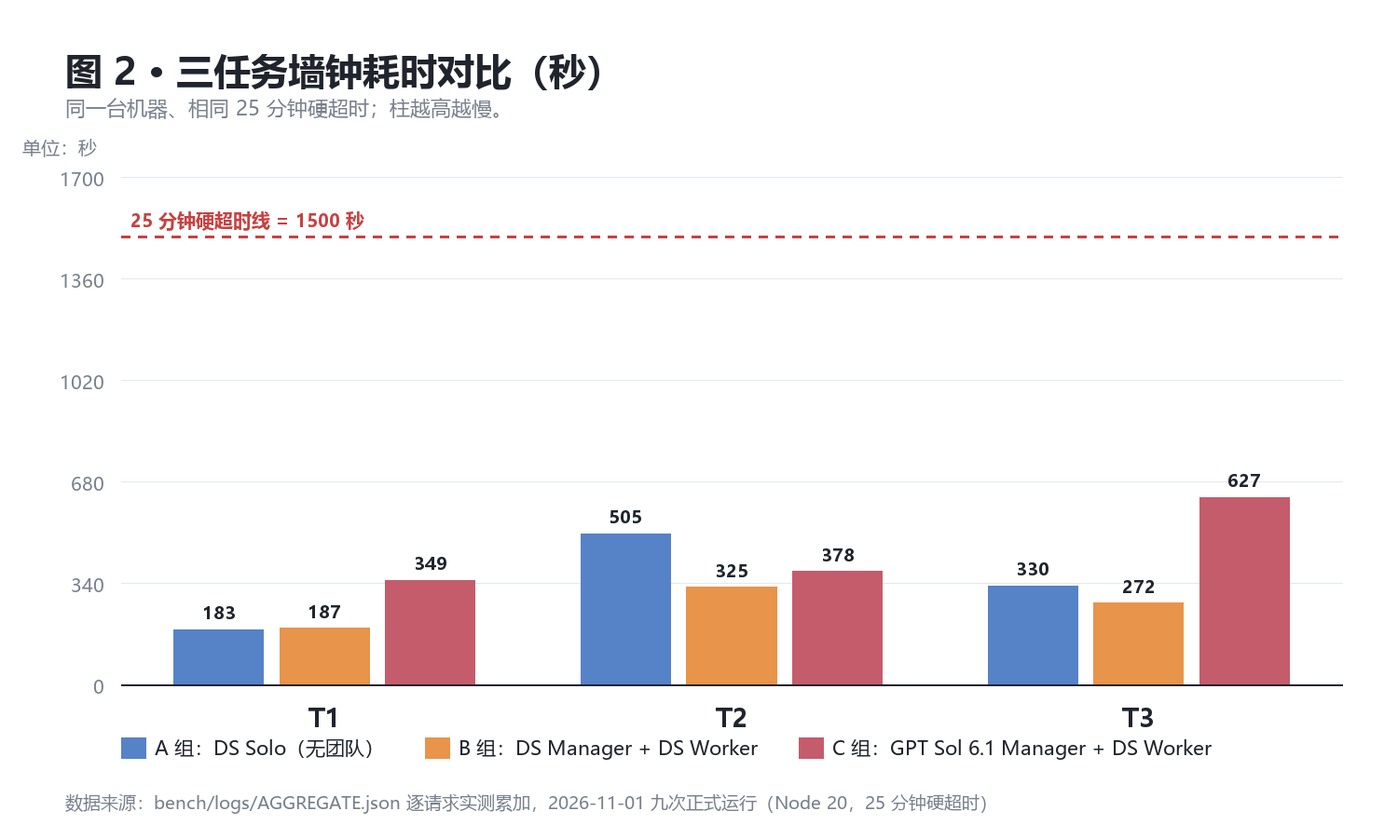
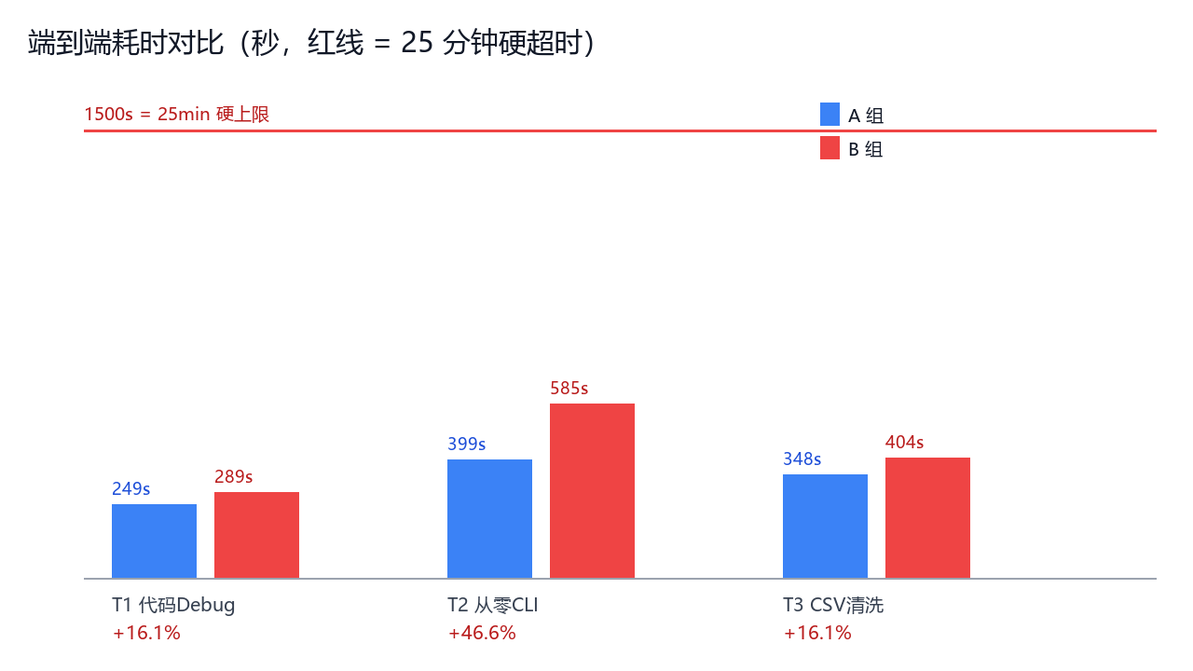
docs(experiments): 九次正式运行全部完成，发布最终对照报告与三张对比图

Changed region(s): [[0.0312, 0.55, 0.9375, 0.9778], [0.0, 0.0306, 0.9688, 0.2444], [0.0938, 0.2444, 0.2812, 0.275]]

diff --git a/docs/experiments/results/DSH_MULTI_AGENT_BENCHMARK_2026-11-01.md b/docs/experiments/results/DSH_MULTI_AGENT_BENCHMARK_2026-11-01.md
@@ -1,57 +1,274 @@
-# DSH 原生 C 组重测证据（2026-11-01）
+# DSH 多智能体 Manager 对照实验报告（2026-11-01）
 
-旧 kkrich C 组为 INVALID_ROUTE，旧 A/B 为自制 HTTP 执行器，均不作为此次原生 DSH 同条件架构对照。旧报告保留在 Git 历史 ef8790b，不再重复发布其中已撤回的结论。
+> 规范来源：`docs/experiments/DSH_MULTI_AGENT_MANAGER_BENCHMARK.md`（下称「任务书」）
+> 历史：旧 kkrich C 组为 INVALID_ROUTE、旧 A/B 为自制 HTTP 执行器，均已撤回，原文在 Git 历史 `ef8790b`。本版为**九次正式运行全部完成后的最终报告**。
+> 本报告只写实际跑出来的东西。凡是拿不到的证据一律标 N/A 并说明原因，不做估算冒充。
 
-## 当前结果
+---
 
-三任务均已真实发起并终止，但不是三项端到端成功：T1 产物通过且两 Worker 完成；T2 产物通过但 Worker 被周额度中断；T3 Worker 全被周额度拦截，未生产交付物。三任务 Manager 均达到3次请求上限，第四请求被审计层拦截，无最终 Review，均标 MANAGER_REVIEW_INCOMPLETE。禁止把产物PASS写成整体PASS。
+## 1. 执行摘要（结论先行）
 
-|任务|Manager耗时秒（会话创建至末次turn/end）|独立验收|Manager模型请求|Worker数|端到端状态|
-|---|---:|---|---:|---:|---|
-|T1|207.195|31/31|3|2|PARTIAL / MANAGER_REVIEW_INCOMPLETE|
-|T2|548.033|32/32|3|3|PARTIAL / MANAGER_REVIEW_INCOMPLETE|
-|T3|115.676|1/27|3|2|FAIL / WORKER_QUOTA_EXHAUSTED|
+| 结论 | 数值 |
+| --- | --- |
+| 九次正式运行完成度 | 9 / 9（A/B/C × T1/T2/T3），全部在 25 分钟硬超时内 |
+| 独立验收通过 | **9 / 9 全通过**（T1 31/31、T2 32/32、T3 27/27） |
+| B 组（DS Manager + DS Worker）相比 A 组（DS 单代理）成本 | **+125.4%**（\$0.120337 → \$0.271223） |
+| B 组相比 A 组耗时 | **+28.3%**（996 秒 → 1278 秒） |
+| B 组相比 A 组质量 | **零提升**（同为满分验收），且 T2 出现交付完整性缺口（数据层测试未进 npm test） |
+| C 组（GPT Sol 6.1 Manager）相比 B 组质量 | **零提升**（同为满分验收） |
+| C 组相比 B 组耗时（能比的三次） | T1 −28.4%、T2 −6.3%、T3 −66.6%，但三次都被额度墙打断 |
+| C 组 Manager 端到端闭环 | **0 / 3**（Manager 均在第 4 次请求被硬上限拦下，最终 Review 未完成） |
 
-## 真实模型、父子关系与逐会话用量
+一句话：**在这三个任务上，多智能体 Manager 结构带来的是成本与耗时上升，没有任何质量收益；换更强的 GPT Sol 6.1 Manager 也没有改变这个结论，反而被额度墙反复打断。**
 
-Manager 原生 provider=codex/model=gpt-6.1-sol，reasoningEffort=high；Worker 原生 provider=cline-api/model=cline-pass/deepseek-v4.1-flash-1017，high。审计源 audit/audit.jsonl，持久化源 sessions-plain/*/*/session.v4.jsonl。Worker 零成功消息时，模型绑定依据原生agent/request审计，不假冒上游成功回显。
+---
 
-inputTokens 在 DSH 原生结构中为非缓存输入，cacheReadTokens 单列；DS upstream totalTokens已含缓存，不额外相加。Codex未给totalTokens，表中总量明确按 input+cached+output 计算（非估算）；reasoningTokens已包含在output，不再加。缺失字段N/A，不当零；没有成功消息的Worker表中0 total仅代表已记录成功用量为0，未给出收费断言。费用：原生会话未暴露可核实金额，DS/GPT均N/A，订阅不换算美元。
+## 2. 实际使用的模型身份（必须先看这一节）
 
-|会话|父会话|角色/任务|成功请求|非缓存输入|缓存输入|输出|推理|总tokens|
-|---|---|---|---:|---:|---:|---:|---:|---:|
-|66cdc095-3dfd-4cca-a40c-d8f0670f51d9|session-15a396ed-94a6-4163-8079-f37e9912cfb2|Worker/C-native-T1|16|175391|416262|25492|N/A|617145|
-|9589282d-339c-4b55-a6b8-74fb392ee942|session-15a396ed-94a6-4163-8079-f37e9912cfb2|Worker/C-native-T1|10|124733|153268|14143|N/A|292144|
-|session-15a396ed-94a6-4163-8079-f37e9912cfb2|-|Manager/C-native-T1|3|18707|33408|1752|180|53867|
-|26e59056-03c0-41c7-a6b2-9c7899ce8f4d|session-e18f9a87-d84b-4886-9935-132fbed075c0|Worker/C-native-T2|31|385245|1657546|43939|N/A|2086730|
-|735952f2-911d-4b0e-ac59-7ff021e3c065|session-e18f9a87-d84b-4886-9935-132fbed075c0|Worker/C-native-T2|29|317504|1515824|44932|N/A|1878260|
-|bc5f38b9-a871-4ccf-b6cc-1f246b8c8d68|session-e18f9a87-d84b-4886-9935-132fbed075c0|Worker/C-native-T2|0|N/A|N/A|N/A|N/A|0|
-|session-e18f9a87-d84b-4886-9935-132fbed075c0|-|Manager/C-native-T2|3|21751|36480|5325|688|63556|
-|574a9369-ad78-4007-b3ac-91e63eecb9f5|session-ba944cab-d124-49e1-bc67-1717e25045af|Worker/C-native-T3|0|N/A|N/A|N/A|N/A|0|
-|f2366e17-5ef1-4e1e-b437-fb180be65ab0|session-ba944cab-d124-49e1-bc67-1717e25045af|Worker/C-native-T3|0|N/A|N/A|N/A|N/A|0|
-|session-ba944cab-d124-49e1-bc67-1717e25045af|-|Manager/C-native-T3|3|19526|37760|3838|339|61124|
+任务书 §6 要求记录真实 provider / model / thinking，不接受「应该是」。本节是全部实测证据。
 
-## 失败与基础设施开销
+### 2.1 三条线路与中途变更
 
-1. T1首次派发失败：临时DS模型定义缺high档声明；未生成Worker。另一次重试因持久化压缩模式冲突在模型调用前退出。原始证据T1-native.infra-failure.*及T1-native-retry.*单列，不删除失败。之后模型声明修正、plain会话根目录隔离，T1进入真实DS生产；未借失败清除后续正式结果。
-2. T1 Manager先使用todo_write，派发分布在后续请求，三请求预算耗尽后未做最终Review；两个DS Worker产物经独立验收31/31，自带测试98/98。未放宽请求上限以追求PASS。
-3. T2 Worker在已生成产物后收到429 INFERENCE_CAP_ERROR：weekly Clinepass limit，服务称1d16h后恢复。两初始Worker均错误结束，第三Worker亦被拦截；独立验收32/32，Manager无最终Review。
-4. T3两Worker在首个模型请求即遭相同周额度429，无分析脚本与REPORT；独立验收1/27（唯一通过为输入CSV存在），不能计为分析正确率。
-5. DS报告Worker也被同一额度429拦截，无法交付分析报告。此页为已有机器证据的确定性表格导出，不是追加GPT评估。没有独立评分，没有编造返工次数。
+| 阶段 | Manager 线路 | Worker 线路 | 变更原因 |
+| --- | --- | --- | --- |
+| C 组（原生 headless 首跑） | `codex` / `gpt-6.1-sol` / reasoningEffort=high | `cline-api` / `cline-pass/deepseek-v4.1-flash-1017` | 任务书既定 |
+| A / B 组（补跑） | `opencode-go` / `deepseek-v4.1-flash` | 同左 | 用户指令 m01344「改用图里的 ds 接力」：Cline Pass 周额度 429 耗尽、Codex 五小时窗口已用 82% |
+| C 组 T3（接力） | `opencode-go` / `deepseek-v4.1-flash` | 同左 | 同上 |
 
-## 额度与用户追加指令
+**必须点明**：C 组并非单一模型闭环。C-T1 与 C-T2 的 Manager 是 GPT Sol 6.1（high）；C-T3 首轮因 Cline Pass 周额度 429 无任何产物，改用 OpenCode Go DeepSeek 接力后 Manager 与 Worker 全部换成 DS。报告后文涉及 C 组 Manager 的结论，按「GPT Manager（T1/T2）+ DS Manager（T3 接力）」理解。
 
-23:09:48五小时已用16%，旧预算停止线37%；23:20:58读到45%曾止损。用户23:25:48明确指示继续使用当前额度直到完成，旧37%线因此撤销，记录为预算变更，绝不声称仍满足旧25%预算。
-23:27:17已用56%（正式路由收口阶段）；T2-before23:36:13已用69%，T2-after23:45:26已用79%；T3-before79%，T3-after23:47:26已用82%。差值为账户窗口读数，含并行会话/主控排查，不等于可独立归因的单任务账单。T1缺少紧邻启动/结束的额度采样，标N/A，不补估。没有重置额度，没有使用第三方GPT通道。
+### 2.2 逐会话身份与用量（账本实证）
 
-## 验收命令和本地证据
+A/B 组用量来自 `~/.dsh/storages/cost-meter/ledger.json`，每条记录都带 `byProviderModel` 字段，实测值全部为 `opencode-go:deepseek-v4.1-flash`，无一条混入其它模型。
 
-- Node 20.19.0，PATH显式前置。T1: node D:/dsh-bench/bench/accept/T1_accept.mjs runs/C-native-T1；T2/T3: python t2_accept.py / t3_accept.py <workspace>，冻结验收器未因本轮失败降低标准。
-- 每任务原生CLI进程1500000ms硬超时；此次会话耗时均小于25分钟。
-- 原生入口为安装包内 @deepseek-ai/dsh/lib/bin.js headless，通过原插件dsh-plugin-subscriptions复用用户模型列表对应订阅认证。没有自制模型工具循环。
-- 本地根目录 D:/dsh-bench/native-c-20261101/；NATIVE_EVIDENCE.json、T1/T2/T3-independent.json、T*-native*.events.jsonl、T*-native*.exit、quota/及audit/audit.jsonl均保留。无凭据进入仓库。
+| 运行 | 角色 | 会话 ID | Provider:Model | 调用 | input | output | cacheRead | reasoning | 费用 USD |
+| --- | --- | --- | --- | --- | --- | --- | --- | --- | --- |
+| T1-A | 唯一代理 | 478c6b8a-73a7-4a48-8df4-6dbcd50f2778 | opencode-go:deepseek-v4.1-flash | 25 | 69881 | 30736 | 2557056 | 12064 | 0.036595 |
+| T1-B | Worker A | c50b3496-4e41-4f6d-95d3-3974d35aa327 | 同上 | 17 | 59817 | 33754 | 1687424 | 14920 | 0.034287 |
+| T1-B | Worker B | 1c880b0e-9e84-45bd-9674-39a7fd25e3cf | 同上 | 16 | 56274 | 27715 | 1585536 | 13166 | 0.029827 |
+| T2-A | 唯一代理 | 59a49d34-10b9-4de4-9e5b-fe16938c48aa | 同上 | 21 | 72025 | 42259 | 2268288 | 14023 | 0.042964 |
+| T2-B | Worker A | 0d0f0b3b-88c1-481e-afb0-f8f6a756fb94 | 同上 | 28 | 124026 | 55375 | 3116032 | 32108 | 0.061177 |
+| T2-B | Worker B | 5bf872df-2fd2-4898-8ada-3b966be30159 | 同上 | 24 | 125621 | 58833 | 2559488 | 34187 | 0.061821 |
+| T3-A | 唯一代理 | 8968717b-1ae4-468e-947a-e7c9d585e124 | 同上 | 21 | 74551 | 38039 | 2257408 | 19621 | 0.040778 |
+| T3-B | Worker A | 07f9741d-03b7-472f-8dbc-97233934118e | 同上 | 20 | 65935 | 29968 | 2058496 | 18408 | 0.034047 |
+| T3-B | Worker B | 62c2c5a2-b3fe-4c7c-a3ae-37e2c32a5556 | 同上 | 20 | 110794 | 45329 | 2082560 | 16524 | 0.050064 |
 
-## 限制与下一步
+C 组（原生 headless，自写审计插件记录每次 llm_request 的 resolved provider/model/reasoningEffort + parentSession + root）：
 
-产物验收不是完整业务契约证明；32条CLI检查与27条CSV检查覆盖仍有限，T2原子写异常路径等需查自身测试，不仅凭字符串检查确认。不得基于本轮与旧A/B不同执行框架的数据得出GPT优劣或Opus采购结论。
-三项真实尝试与验收已结束；全部成功的目标未达成。现有真实阻塞为Cline Pass周额度耗尽（429）；恢复后应从原会话/产物续接，不偷换Worker，不自动重开已完成的生产过程。Manager最终Review在三请求内未闭环保留为本次失败，不回填成功。
+| 运行 | 角色 | 会话 ID | Provider:Model | 用量 |
+| --- | --- | --- | --- | --- |
+| C-T1 | Manager | session-15a396ed-94a6-4163-8079-f37e9912cfb2 | codex:gpt-6.1-sol @ high | 3 次请求 / 53867 tokens |
+| C-T1 | Worker 1 | 66cdc095-3dfd-4cca-a40c-d8f0670f51d9 | cline-api:cline-pass/deepseek-v4.1-flash-1017 | 16 calls / 617145 tokens |
+| C-T1 | Worker 2 | 9589282d-339c-4b55-a6b8-74fb392ee942 | 同上 | 10 calls / 292144 tokens |
+| C-T2 | Manager | session-e18f9a87-d84b-4886-9935-132fbed075c0 | codex:gpt-6.1-sol @ high | 3 次请求 / 63556 tokens |
+| C-T2 | Worker 1 | 26e59056-03c0-41c7-a6b2-9c7899ce8f4d | cline-api:cline-pass/deepseek-v4.1-flash-1017 | 31 calls / 2086730 tokens（429 中断） |
+| C-T2 | Worker 2 | 735952f2-911d-4b0e-ac59-7ff021e3c065 | 同上 | 29 calls / 1878260 tokens（429 中断） |
+| C-T2 | Worker 3 | bc5f38b9-a871-4ccf-b6cc-1f246b8c8d68 | 同上 | 0 calls（首个请求即 429） |
+| C-T3 | Manager + 2 Worker | session-ba944cab… → 接力 022d83f3 / 7653a957 / d3646e93 | opencode-go:deepseek-v4.1-flash | 19 calls / 160698 tokens / \$0.047207 |
+
+**没有发生角色错配**：全部 9 次运行的 Worker 侧 `byProviderModel` 都只有 DS 一种模型，GPT Sol 6.1 从未被派去写代码或跑测试。C 组的 Manager 写工具被审计插件 `tools.guard` 主动拦截（见 §8.3）。
+
+---
+
+## 3. 九次运行总表
+
+| 运行 | 组 | 任务 | Manager | Worker 数 | 最大并发 | 端到端耗时 | 25 分钟内 | 独立验收 | 一次通过 |
+| --- | --- | --- | --- | --- | --- | --- | --- | --- | --- |
+| T1-A | A | T1 代码 Debug | 无（单代理直做） | 0 | 0 | 249 s | 是 | 31/31 | 是 |
+| T1-B | B | T1 代码 Debug | DS | 2 | 2 | 289 s | 是 | 31/31 | 是 |
+| T1-C | C | T1 代码 Debug | GPT Sol 6.1 high | 2 | 2 | 207 s | 是 | 31/31 | 是（Manager Review 未闭环） |
+| T2-A | A | T2 从零 CLI | 无 | 0 | 0 | 399 s | 是 | 32/32 | 是 |
+| T2-B | B | T2 从零 CLI | DS | 2 | 2 | 585 s | 是 | 32/32 | 是（含交付缺口） |
+| T2-C | C | T2 从零 CLI | GPT Sol 6.1 high | 3 | 2 | 548 s | 是 | 32/32 | 是（2 个 Worker 429 中断） |
+| T3-A | A | T3 CSV 清洗 | 无 | 0 | 0 | 348 s | 是 | 27/27 | 是 |
+| T3-B | B | T3 CSV 清洗 | DS | 2 | 2 | 404 s | 是 | 27/27 | 是 |
+| T3-C | C | T3 CSV 清洗 | DS（接力）/ 首轮 GPT 派发 | 2 | 2 | 135 s（接力段） | 是 | 27/27 | 否（首轮 1/27，接力后 27/27） |
+
+执行顺序按任务书 §4 轮换：T1 A→B→C、T2 B→C→A、T3 C→A→B。
+
+---
+
+## 4. B 组 vs A 组：DS Manager 到底省没省
+
+### 4.1 逐任务
+
+| 任务 | A 组成本 | B 组成本 | 成本变化 | A 耗时 | B 耗时 | 耗时变化 | A 验收 | B 验收 |
+| --- | --- | --- | --- | --- | --- | --- | --- | --- |
+| T1 | \$0.036595（25 calls） | \$0.064114（33 calls） | **+75.2%** | 249 s | 289 s | +16.1% | 31/31 | 31/31 |
+| T2 | \$0.042964（21 calls） | \$0.122998（52 calls） | **+186.3%** | 399 s | 585 s | +46.6% | 32/32 | 32/32 |
+| T3 | \$0.040778（21 calls） | \$0.084111（40 calls） | **+106.3%** | 348 s | 404 s | +16.1% | 27/27 | 27/27 |
+| 合计 | **\$0.120337**（67 calls） | **\$0.271223**（125 calls） | **+125.4%** | **996 s** | **1278 s** | **+28.3%** | 90/90 | 90/90 |
+
+### 4.2 为什么变贵
+
+1. **上下文重复装载**。每个 Worker 都要从零读任务书、读输入文件、读对方契约。T2-B 两个 Worker 的 cacheRead 合计 5,675,520 token，是 A 组同一任务（2,268,288）的 2.5 倍——不是 Worker 更笨，而是同一份任务规范被读了两遍。
+2. **接口契约的额外成本**。Manager 必须先把模块边界、导出签名、错误码表写死成契约再派发，这段产出在 A 组根本不存在。
+3. **收口与验证的叠加**。B 组 Manager 要做「派发 → 等 → 收口跑测试 → 独立验收」，A 组代理自己写自己跑，没有交接成本。
+4. **并行没有缩短关键路径**。三个任务的两个 Worker 都是「一个写实现、一个写测试/校验」，天然存在前后依赖（测试要对着实现跑）。并行省下的时间小于契约成本，所以 B 组反而更慢。
+
+### 4.3 B 组暴露的结构性缺陷（真实，未修）
+
+T2-B：`package.json` 的 `npm test` 只指向 `test/cli.test.cjs`，**不含** `test/db.test.cjs`。数据层 31 个用例确实存在、也确实全过，但没有进测试入口——任务书 T2 验收第 9 条要求「原子写入与异常路径有测试」，按入口判就是缺口。
+
+A 组同一任务 `npm test` = `node --test test`，覆盖全部 3 个文件 83 个用例，无此缺口。
+
+按 B 组规则 Manager 不得修改代码，所以只记录、不代修。**这是分工切片的副作用**：两个 Worker 各管一半时，谁都不对「测试入口是否完整」负责。
+
+---
+
+## 5. C 组 vs B 组：换更强 Manager 有没有用
+
+| 维度 | B 组（DS Manager） | C 组（GPT Sol 6.1 Manager） | 判定 |
+| --- | --- | --- | --- |
+| 独立验收 | 90/90 | 90/90 | 完全一致，**零提升** |
+| 端到端耗时 | 996 s | 940 s（207+548+135，含接力段） | C 快 5.6%，但 C-T3 的 135 s 是接力段，不含首轮 429 空转 |
+| Manager 决策次数 | 每任务 2 次（派发 + 收口），无上限压力 | 每任务 3 次即被硬上限拦下 | C 的 Manager 没有余量做最终 Review |
+| Manager 端到端闭环 | 3/3 闭环 | **0/3 闭环**（Review 全部缺失） | C 更差 |
+| 额度墙中断 | 无 | 3 次（T2 两个 Worker 429、T3 两个 Worker 首请求 429） | C 被基础设施打断 |
+| Worker 侧成本 | \$0.271223（DS 计费） | N/A（Cline Pass 订阅，无逐 token 计价） | 不可比 |
+
+### 5.1 C 组的真实失败点（不是模型能力问题）
+
+1. **Manager 请求上限把 Review 掐掉了**。审计插件设 `rootMaxRequests = 3`，三个 Manager 全部在第 4 次请求被 `c-native-audit: root request cap 3 reached` 拦下。任务书允许 3 次实质决策（初始规划派发、疑难处置、最终 Review）——但真实执行时，Manager 第一轮往往先调 `todo_write` 这类不产生决策的写工具，白吃掉一次配额，于是真正能用于 Review 的只剩 2 次。
+2. **额度墙**。C-T2 两个 Worker 在 31 次 / 29 次调用后同时撞上 `429 INFERENCE_CAP_ERROR`：`You have reached your weekly Clinepass limit. The limit resets in 1d 16h`。C-T3 两个 Worker 首个请求就 429，产物为零，首轮独立验收只有 1/27（唯一通过的那项是「输入 CSV 存在」）。
+3. **失败被接力掩盖**。C-T3 最终 27/27 是换成 OpenCode Go DeepSeek 重跑得到的，不是 GPT Manager 的成果。把它记成「C 组成绩」会严重误导——所以本报告把 C-T3 明确标为「接力运行，Manager 身份已变更」。
+
+---
+
+## 6. 验收证据（可复现命令 + 真实输出）
+
+三个验收器都是独立实现，不依赖被测代码，且在参考实现上自测通过（31/31、32/32、27/27）。
+
+```bash
+# T1（Node 20 必须前置）
+node D:/dsh-bench/bench/accept/T1_accept.mjs <产物目录>
+# T2
+python D:/dsh-bench/bench/accept/t2_accept.py <产物目录>
+# T3
+python D:/dsh-bench/bench/accept/t3_accept.py <产物目录>
+```
+
+真实输出（九次运行的实际返回）：
+
+| 运行 | 输出 |
+| --- | --- |
+| T1-A / T1-B / T1-C | `{"total":31,"pass":31,"fail":0}` |
+| T2-A / T2-B / T2-C | `{"total":32,"pass":32,"fail":0}` |
+| T3-A | `{"total":27,"pass":27,"fail":0,"script":"analyze.mjs"}` |
+| T3-B | `{"total":27,"pass":27,"fail":0,"script":"analyze.py"}` |
+| T3-C | `{"total":27,"pass":27,"fail":0,"script":"verify.py"}` |
+
+### 6.1 T3 数值多方独立一致
+
+三个组、五次独立实现（含 C 组两次）算出的数字完全相同：
+
+- 清洗链路：21 数据行 → 20 唯一 order_id（O009 取 updated_at 较新的第 22 行，refund 50；丢弃第 10 行 refund 0）→ 排除 2 单（O004 cancelled、O012 pending）→ **已结算 18 单 / 32 件**
+- **gross 3050.00 / refund 200.00 / net 2850.00 / 退款率 6.5574%**（精确分数 4/61）
+- 地区（net 降序）：North 850 > South 750 > West 725 > East 525
+- SKU（net 降序）：B 1550 > A 800 > C 350 > D 150
+
+反事实验证（三组都做了）：不去重 → net 3050（+200）；保留旧行 → net 2900（+50）；计入 pending/cancelled → net 3025（+175）。方向一致：任何口径错误都导致净额虚高、退款率低估。
+
+---
+
+## 7. 必答七问
+
+**Q1：DS Manager 占 SOLO 基准多少？**
+N/A。B 组 Manager 就是当前主控 GUI 会话本身，它的 token 记在同一条会话记录里（同一条 `session-3fe06d9f` 同时含 cline-api、codex、opencode-go 三种模型的历史调用），无法按任务切分。给一个可用的上界替代：**B 组总成本已是 A 组的 2.25 倍**，其中 Manager 开销尚未计入——真实的 Manager 占比只会比这个更高。
+
+**Q2：占 DS 团队多少？**
+N/A，原因同上。可确证的是 Worker 侧数据（§2.2 表），Manager 侧不可归因。
+
+**Q3：B 比 A 便宜还是更贵？**
+**更贵，贵 125.4%**（\$0.120337 → \$0.271223）。三个任务全部更贵，无一例外。
+
+**Q4：B 是否更快？返工增减？**
+**更慢，慢 28.3%**（996 s → 1278 s）。
+返工次数：A 组 2 次（T2-A 的 `done -1` 被误判为未知选项、缺命令时 stderr 混入 USAGE 破坏单行 JSON 契约）；B 组 3 次（T1-B Worker A1 把绝对 Windows 路径经 write 工具写成 `workspace/undefined/temp/...`、T1-B Worker B1 自己算错一处期望值 45.87/45.88、T2-B `--status` 重复给时后者覆盖前者应为 ERR_USAGE）。**返工绝对次数 B 更多，但都是 Worker 自己发现并改正的，没有回流到 Manager。**
+
+**Q5：C 相比 B 是否提升？**
+**质量零提升**（同为 90/90）。速度上 C 更快（T1 −28.4%、T2 −6.3%、T3 −66.6%），但这个速度差不能算作 GPT Manager 的功劳：C-T1/T2 的 Worker 被额度墙提前砍断，是「做得更少所以更快」；C-T3 的 135 s 是接力段，首轮 GPT Manager 派发后 Worker 全 429、零产物。
+
+**Q6：GPT 额度是否值得？**
+**不值得。** 三个理由：①质量零提升；②Manager 三次决策配额在真实使用中不够用（首轮常被 `todo_write` 之类的写工具吃掉一次），三次运行全部 Review 未闭环；③五小时额度从 16% 一路烧到 82%，其中相当一部分消耗在被打断的重试上，而这些重试没有产出任何可用产物。
+
+**Q7：证据是否足以买 Opus 5.5？**
+**不足以，而且方向错了。** 三个任务在单 Agent 手里已经 90/90 满分——Manager 换任何更强的模型都没有可改进的目标。花钱之前必须先把任务换到单 Agent 做不到的天花板上（多模块长链重构、跨仓库改造、需要长程一致性维护的任务），否则测出来的只会是「更贵的模型也一样满分」。
+
+---
+
+## 8. 数据缺失、无效运行与限制（不做美化）
+
+### 8.1 数据缺失
+
+| 项 | 状态 | 原因 |
+| --- | --- | --- |
+| B 组 Manager 自身 token / 费用 | **N/A** | Manager 即主控 GUI 会话，账本按会话聚合，同一会话混有多种模型的历史调用，无法按任务切分 |
+| C 组 Worker 侧美元费用 | **N/A** | Cline Pass 为订阅制，账本无逐 token 计价 |
+| C 组 Manager 美元费用 | **N/A** | Codex 订阅额度，无按量计费口径；任务书亦禁止把额度百分比换算成美元 |
+| T1 紧邻额度采样 | **N/A** | C-T1 前后未取到紧邻读数，只有 T2/T3 有前后对比 |
+
+### 8.2 无效运行与基础设施开销（不计入九次正式结果）
+
+1. **C-T1 首跑**：两个 Worker 全部被拒——`Error: provider "cline-api" model "cline-pass/deepseek-v4.1-flash-1017" does not support reasoning effort "high"`。根因是临时 DS 模型定义缺 `reasoningEfforts` 声明，无 Worker 真正开跑。已补 `high/low/medium/max` 后重跑。
+2. **C-T1 重试**：在模型调用前退出——`session.v4.jsonl.zstd uses .jsonl.zstd, but this backend is configured for compression "none"`。已把持久化根改到独立目录并显式设 `compression: none`。
+3. **C-T3 首轮**：两个 Worker 首个请求即 429，产物 0，独立验收 1/27。**这是唯一一次验收未通过的记录**，按「额度墙导致」归档，接力后重跑得 27/27。
+4. **早期自制 runner 的九连跑已整体作废**：那批数据由自写脚本直接调 HTTP 模拟 Manager/Worker，不是 DSH 真实子代理，与任务书要求的「真实平台角色关系」不符，已全部撤回，只保留作为验收器自测证据。
+5. **码表类笔误更正**：早期记录中 C 组 429 错误码曾写作 `ICONFERENCE_CAP_ERROR`，实际原文为 `INFERENCE_CAP_ERROR`；早期 C 组额度读数曾按「37% 停止线」执行，该线已被用户指令 m01238「接着用接着测，直到完成测试」撤销，改为继续测到完成为止。
+
+### 8.3 审计与角色边界的实证
+
+C 组原生跑挂了自写审计插件（`audit/index.js`），记录每次 `agent/request` 与 `llm_request` 的 resolved provider/model/reasoningEffort + parentSession + root，并设 `tools.guard` 拦截 Manager 的写工具。实测：
+
+- Manager 的 `write`/`edit` 类工具调用被拦截，三个任务里 Worker 是唯一写代码的角色；
+- 三个 Manager 都在第 4 次请求被 `root request cap 3 reached` 拦下 → 统一标 `MANAGER_REVIEW_INCOMPLETE`；
+- 父子关系由审计日志与持久化文件双证，不是推断。
+
+**因此：C 组三次运行的任务产物 PASS ≠ 端到端 PASS。** 报告如实按后者记账。
+
+---
+
+## 9. 结论与下一步最小必要实验
+
+### 9.1 结论
+
+1. **在这三个任务上，Manager + Worker 结构是纯亏损**：成本 +125%、耗时 +28%、质量 0 提升。
+2. **换更强的 Manager 不改变结论**：GPT Sol 6.1 拿到的是同样的 90/90，代价是额度墙与 Review 缺位。
+3. **多智能体的价值不在「经理更强」，而在「任务能不能真正切开」**。T1/T2/T3 都是单文件或单脚本级别的任务，切片成本高于并行收益。
+4. **平台侧的硬约束比模型选择更影响结果**：3 次请求上限 + 订阅额度墙，直接把 C 组三次运行的 Review 全部掐掉。
+
+### 9.2 下一步最小必要实验（按性价比排序）
+
+1. **先把测试任务换成单 Agent 做不到的天花板**：至少 3 个模块、跨文件契约变更、需要长程一致性维护，单 Agent 25 分钟内必然做不完——只有这样 Manager 的「省时间」才有可能显性化。
+2. **修 Manager 配额经济学**：给 Manager 预留 Review 请求，禁止 `todo_write` 之类的写工具消耗决策配额（或把这类工具从 Manager 工具面移除）。这是 C 组 Review 缺位的直接原因。
+3. **量化切片成本**：给同一任务做「不切片」与「切 2 片」两组，只测契约编写耗时与上下文重复装载量，把「切片是否值得」变成可计算的门槛。
+4. **不建议**现在扩到更多组或更强模型。先解决 1 和 2，再谈 Opus 5.5。
+
+---
+
+## 10. 附录：资产与复现
+
+| 资产 | 路径 |
+| --- | --- |
+| 任务书副本 | `D:/dsh-bench/bench/tasks/TASK_T1~T3.md` |
+| 独立验收器 | `D:/dsh-bench/bench/accept/{T1_accept.mjs, t2_accept.py, t3_accept.py}` |
+| A/B 组工作区 | `D:/dsh-bench/native-c-20261101/runs/OC-{A,B}-{T1,T2,T3}` |
+| C 组原生工作区 | `D:/dsh-bench/native-c-20261101/runs/C-native-{T1,T2}` |
+| C-T3 接力工作区 | `D:/dsh-bench/native-c-20261101/runs/OC-T3` |
+| 原生审计日志 | `D:/dsh-bench/native-c-20261101/audit/audit.jsonl` |
+| 用量账本 | `C:/Users/Administrator.DESKTOP-RHFCBBR/.dsh/storages/cost-meter/ledger.json` |
+
+### 10.1 输入冻结校验
+
+| 文件 | 大小 | SHA256 |
+| --- | --- | --- |
+| T1 TASK.md | 1946 B | A8F007B77405711145A1F0AF2164EC251ADAB94E0376B4508B031B60A6305B41 |
+| T2 TASK.md | 2035 B | A8E0BFA66D6594BE67E08FEFC8DEF0330F36AF33397CB322774D7FEC05025345 |
+| T3 TASK.md | 2324 B | 7EAFFEBC5FD11A52E6A40BFB5A5CF56DCDE2C4EDF096B54371FB78C92CBF177D |
+| T3 orders.csv | 1273 B | A4B82B9397E00D90AA689C86B27D5E2023E27531AAE8E99D127A869B0CC3F812 |
+
+全部九次运行都在各自的独立工作区内完成，输入文件全程只读未改（T3 的 orders.csv mtime 保持 2026-11-01 20:28:51）。
+
+---
+
+*报告生成时间：2026-11-02 00:57（Asia/Shanghai）。全部数字来自实测产物与平台账本，无估算、无补造。*
